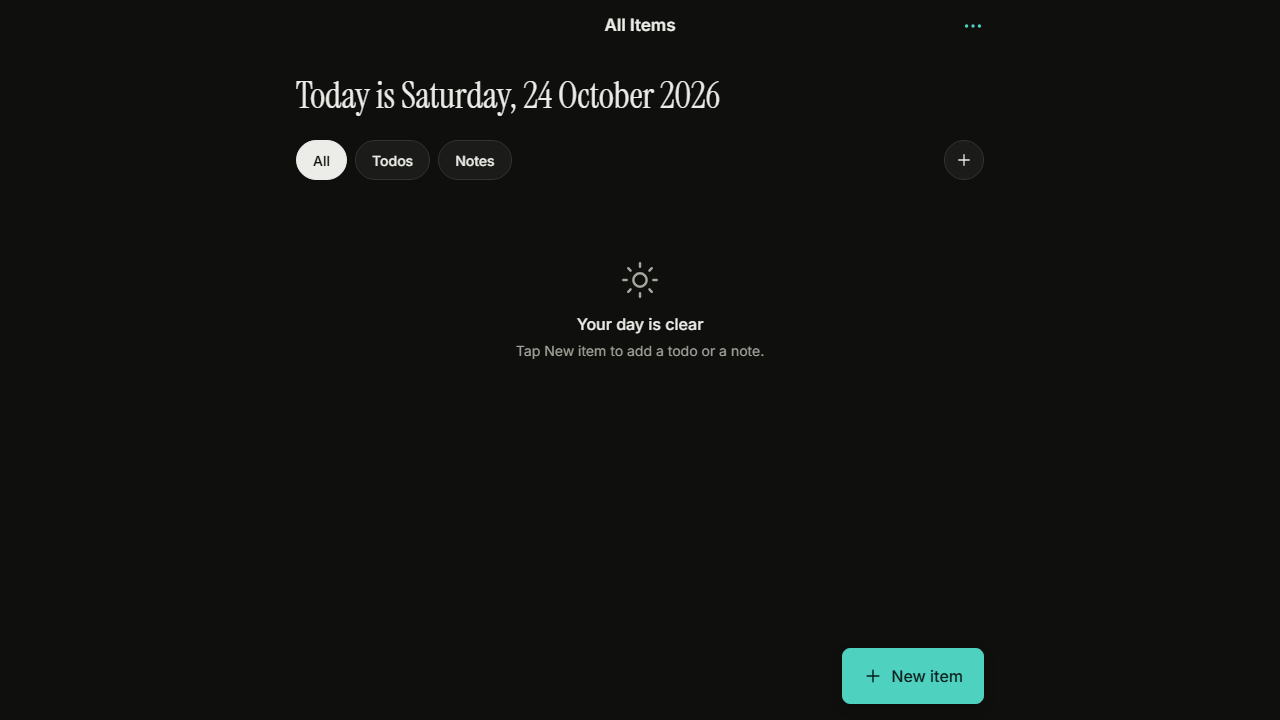
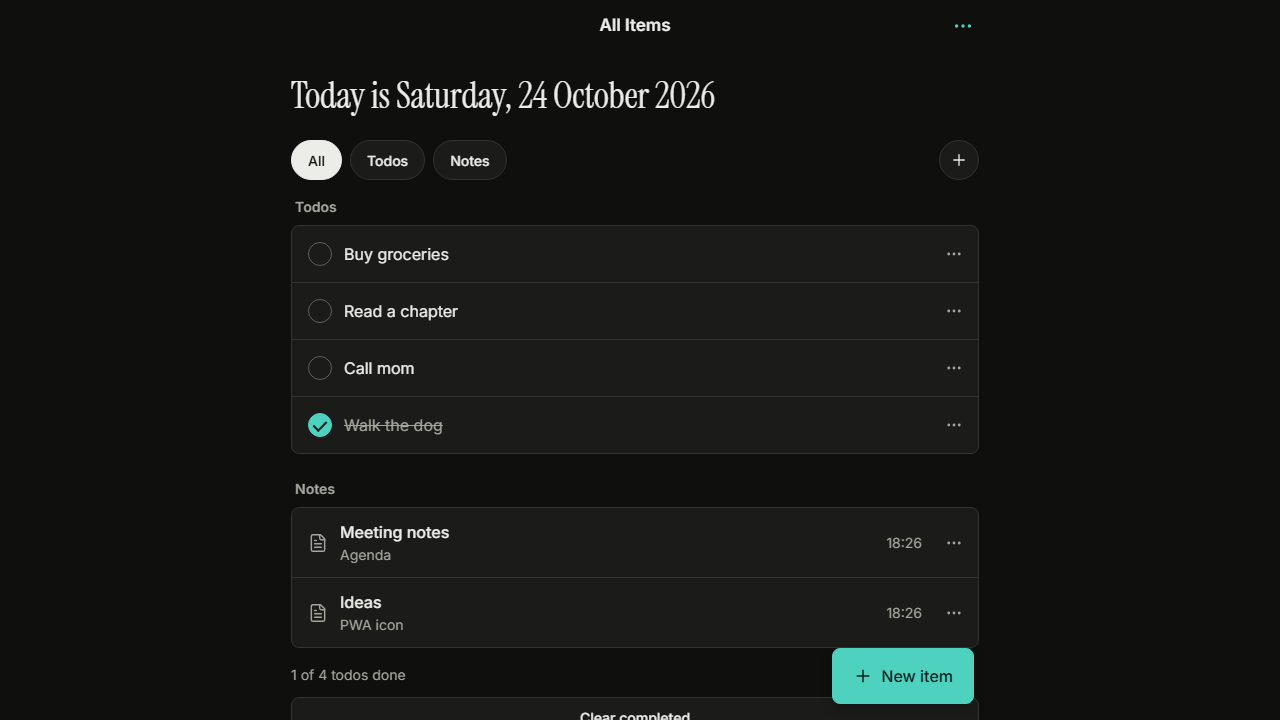
Use user-provided mobile screenshots

diff --git a/sw.js b/sw.js
@@ -1,4 +1,4 @@
-const CACHE = 'todays-stuff-v1';
+const CACHE = 'todays-stuff-v2';
 const PRECACHE = [
   './',
   './index.html',
@@ -12,6 +12,8 @@ const PRECACHE = [
   './icons/icon-maskable-192.png',
   './icons/icon-maskable-512.png',
   './screenshots/mobile.png',
+  './screenshots/mobile-2.png',
+  './screenshots/mobile-3.png',
   './screenshots/desktop.png'
 ];
 
